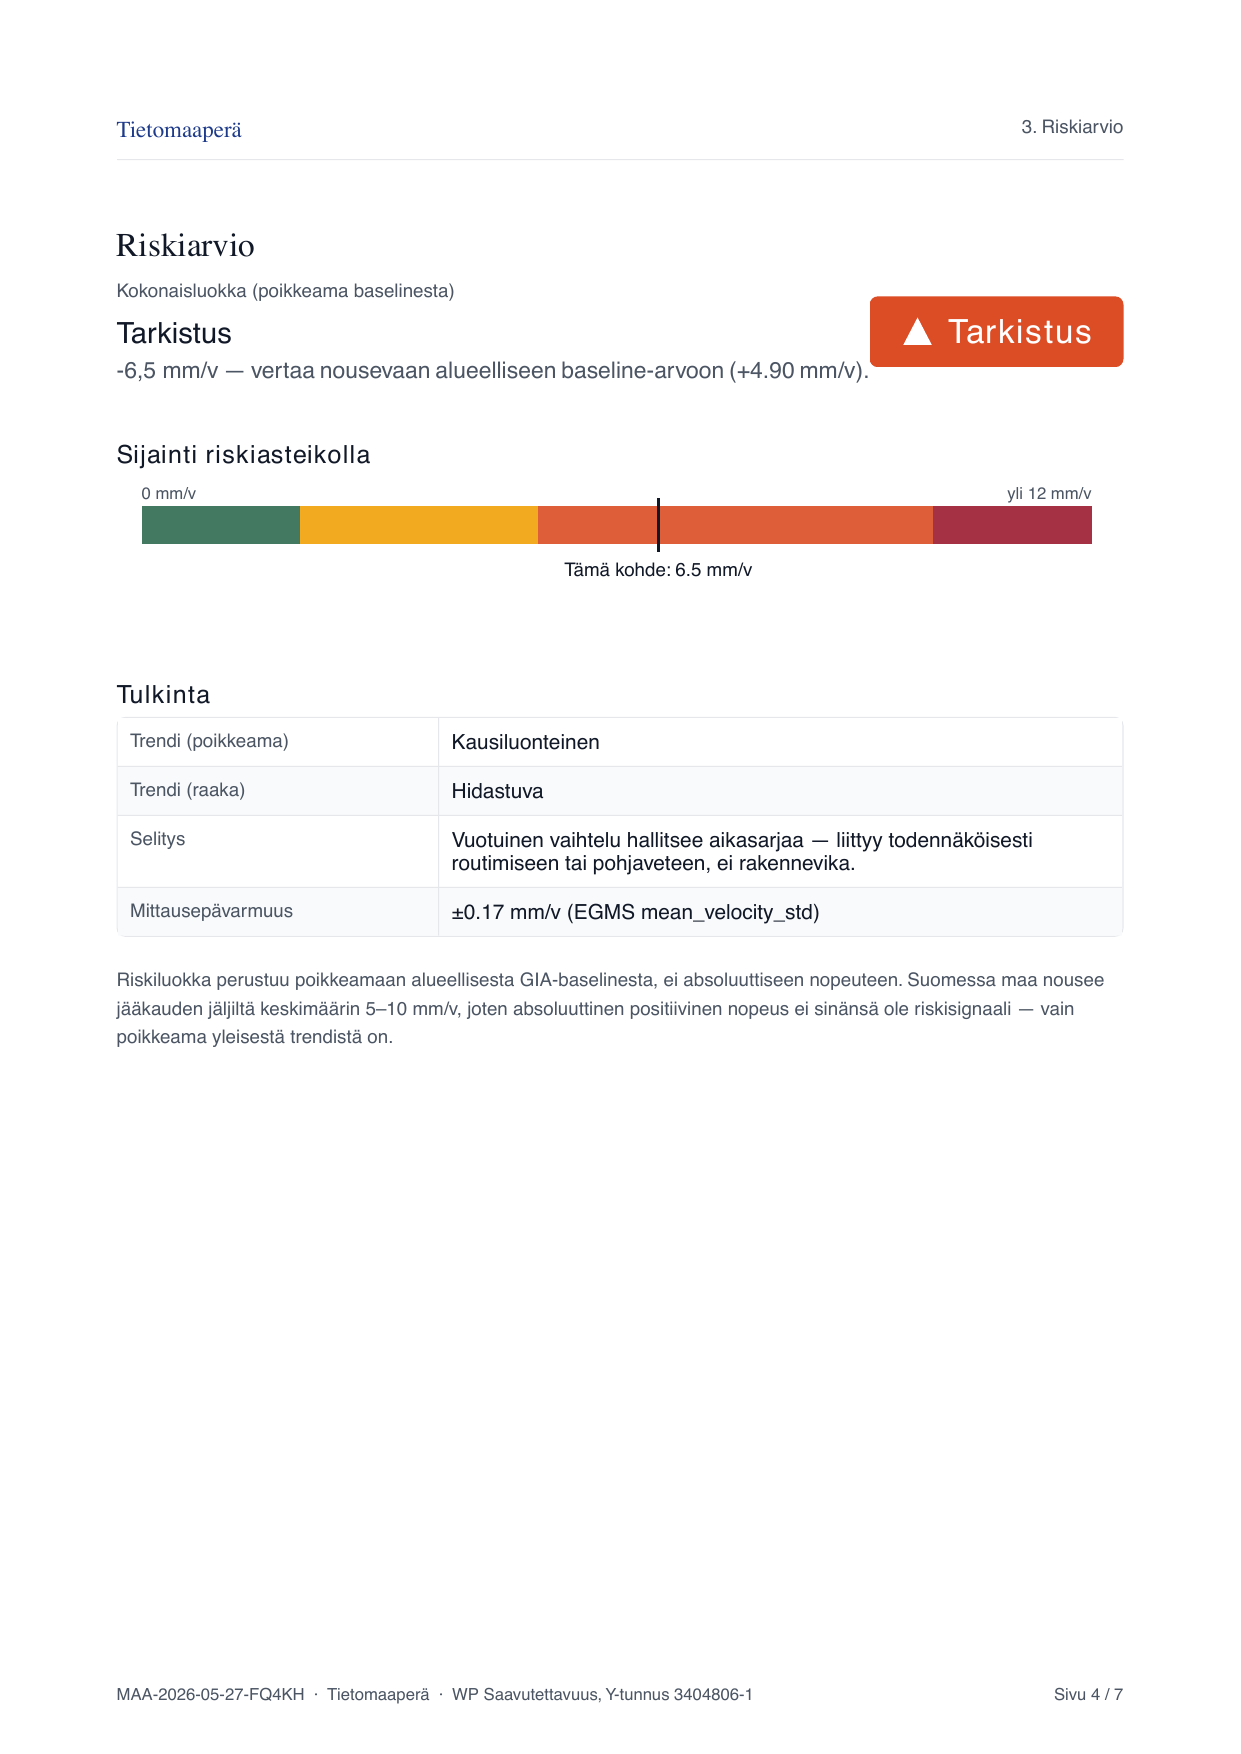
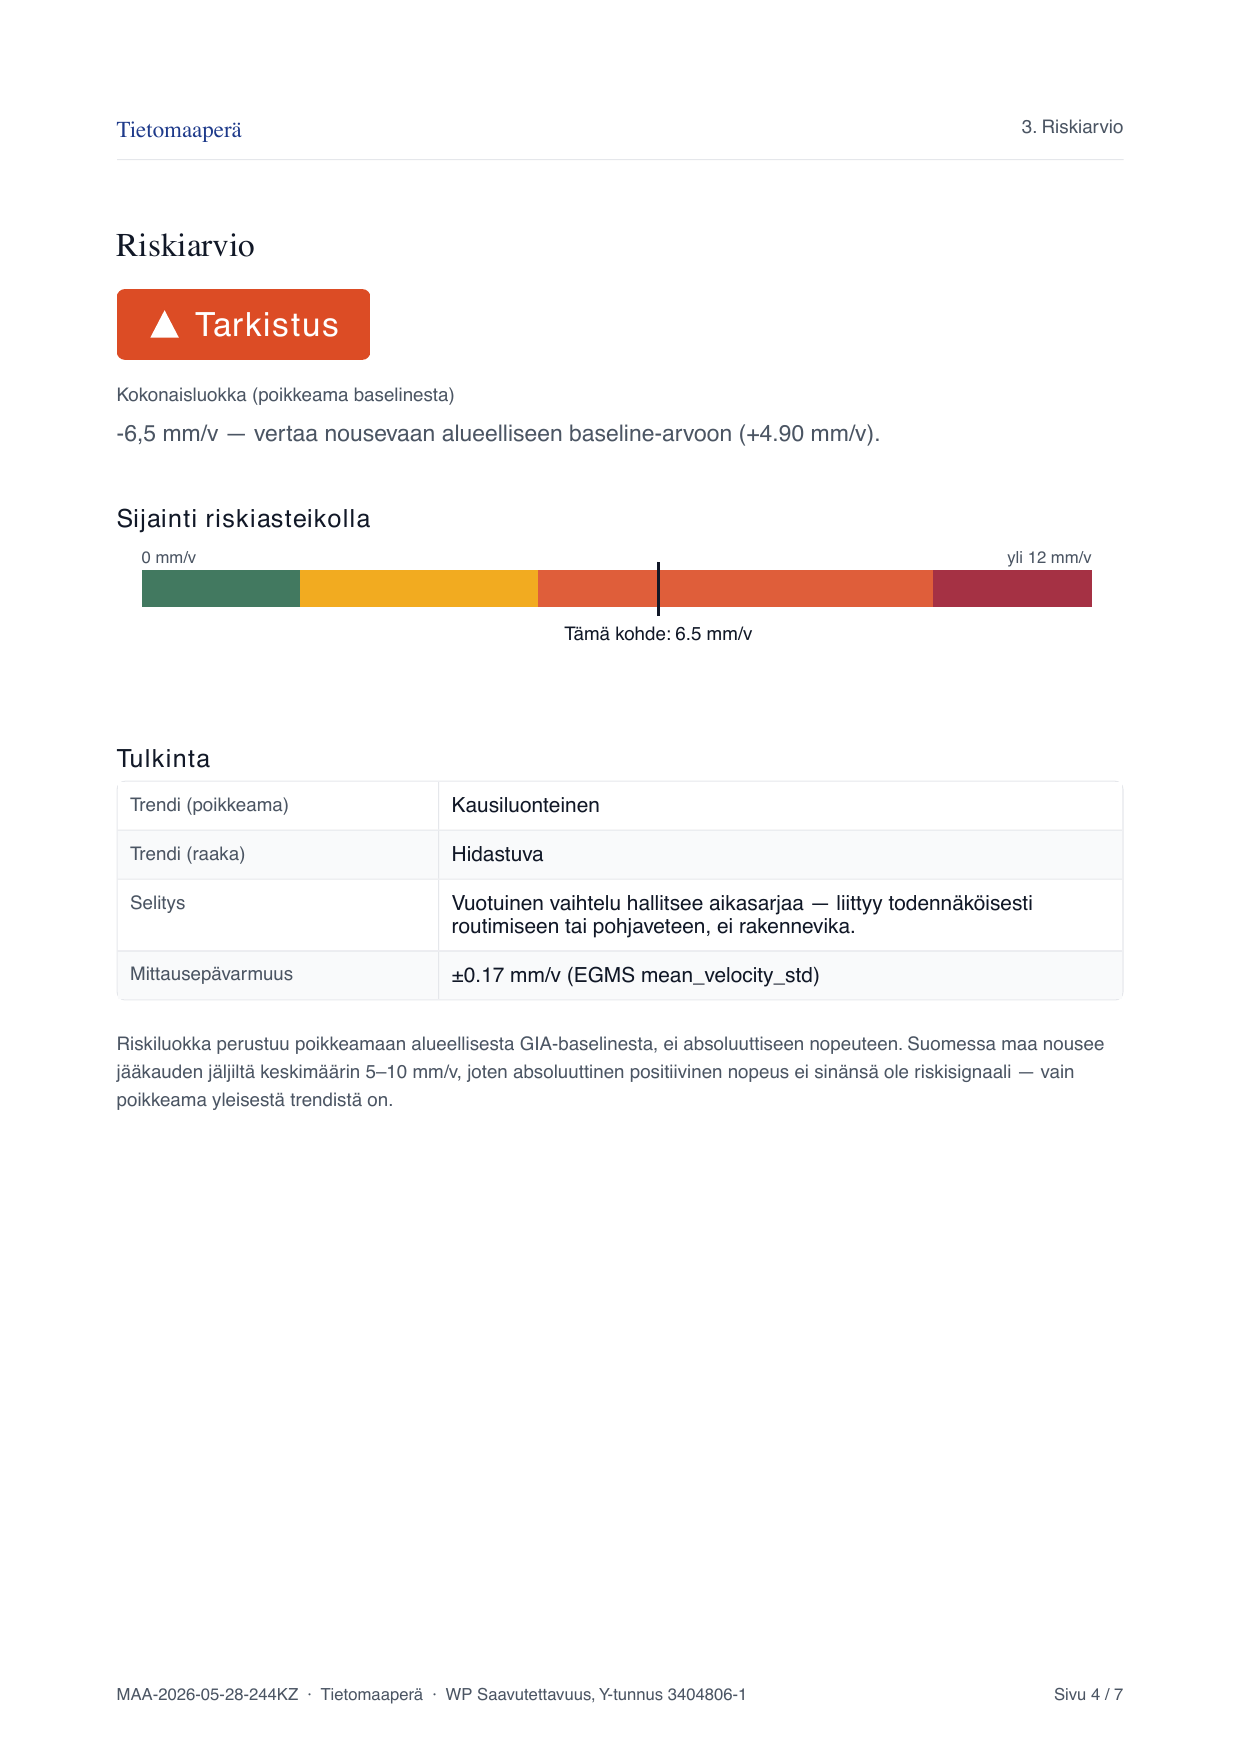
web: fix PDF layout — status badge position, chart x-axis cutoff
Page 4 (Riskiarvio):
- RiskBadge was sitting in a flexbox row alongside the metric
  description column. With `alignItems: center` the badge
  ended up vertically pinned to the column's midline, which
  visually read as a floating element near the heading. Drop
  the two-column layout: badge now sits directly under the
  Riskiarvio h2 as a standalone block, caption + velocity
  description run full-width below. Also drops the redundant
  14 pt class-name label since the badge already conveys it.

Page 3 (Mittaushistoria):
- ChartImage x-axis labels were `textAnchor=middle` for all
  three ticks. The rightmost tick sits at x = width - PAD.right
  (= 468 px when width is 480), so "2024-10" extended ~14 px
  past the SVG edge and clipped to "2024-1". Anchor the first
  tick `start` and last tick `end` so they hug the chart edges
  instead of overhanging.

Screenshots regenerated from /tmp/tietomaapera-3000200476-MAA-
2026-05-28-244KZ.pdf.

diff --git a/web/src/pdf/pages/RiskPage.tsx b/web/src/pdf/pages/RiskPage.tsx
@@ -5,7 +5,7 @@ import Footer from '../components/Footer'
 import RiskThermometer from '../components/RiskThermometer'
 import MetadataTable from '../components/MetadataTable'
 import RiskBadge from '../components/RiskBadge'
-import { RISK_LABELS_FI, TREND_LABELS_FI, formatVelocity } from '../lib/format'
+import { TREND_LABELS_FI, formatVelocity } from '../lib/format'
 import type { PDFReportInput } from '../types'
 
 // Plain-language narrative for the three trend classes most likely to
@@ -29,20 +29,16 @@ export default function RiskPage({ input }: { input: PDFReportInput }) {
       <Header subtitle="3. Riskiarvio" />
       <Text style={styles.h2}>Riskiarvio</Text>
 
-      <View style={{ flexDirection: 'row', alignItems: 'center', marginBottom: 16 }}>
-        <View style={{ flex: 1 }}>
-          <Text style={styles.small}>Kokonaisluokka (poikkeama baselinesta)</Text>
-          <Text style={{ fontSize: 14, marginVertical: 4 }}>
-            {RISK_LABELS_FI[building.anomaly_class]}
-          </Text>
-          <Text style={{ fontSize: 11, color: colors.textDim }}>
-            {formatVelocity(building.velocity_anomaly_mm_y)} — vertaa nousevaan
-            alueelliseen baseline-arvoon (+{building.gia_baseline_mm_y.toFixed(2)} mm/v).
-          </Text>
-        </View>
-        <View>
-          <RiskBadge riskClass={building.anomaly_class} size="large" />
-        </View>
+      <View style={{ marginTop: 4, marginBottom: 12 }}>
+        <RiskBadge riskClass={building.anomaly_class} size="large" />
+      </View>
+
+      <View style={{ marginBottom: 16 }}>
+        <Text style={styles.small}>Kokonaisluokka (poikkeama baselinesta)</Text>
+        <Text style={{ fontSize: 11, color: colors.textDim, marginTop: 4 }}>
+          {formatVelocity(building.velocity_anomaly_mm_y)} — vertaa nousevaan
+          alueelliseen baseline-arvoon (+{building.gia_baseline_mm_y.toFixed(2)} mm/v).
+        </Text>
       </View>
 
       <View style={{ marginBottom: 16 }}>

diff --git a/web/src/pdf/components/ChartImage.tsx b/web/src/pdf/components/ChartImage.tsx
@@ -102,7 +102,8 @@ export default function ChartImage({
           </SvgText>
         </G>
       ))}
-      {/* x labels */}
+      {/* x labels — first anchors start, last anchors end so the
+          "YYYY-MM" labels don't clip past the SVG viewport edges. */}
       {xTicks.map((t, i) => (
         <SvgText
           key={i}
@@ -110,7 +111,7 @@ export default function ChartImage({
           y={height - 6}
           style={{ fontSize: 8 }}
           fill={colors.textDim}
-          textAnchor="middle"
+          textAnchor={i === 0 ? 'start' : i === xTicks.length - 1 ? 'end' : 'middle'}
         >
           {t.label}
         </SvgText>
